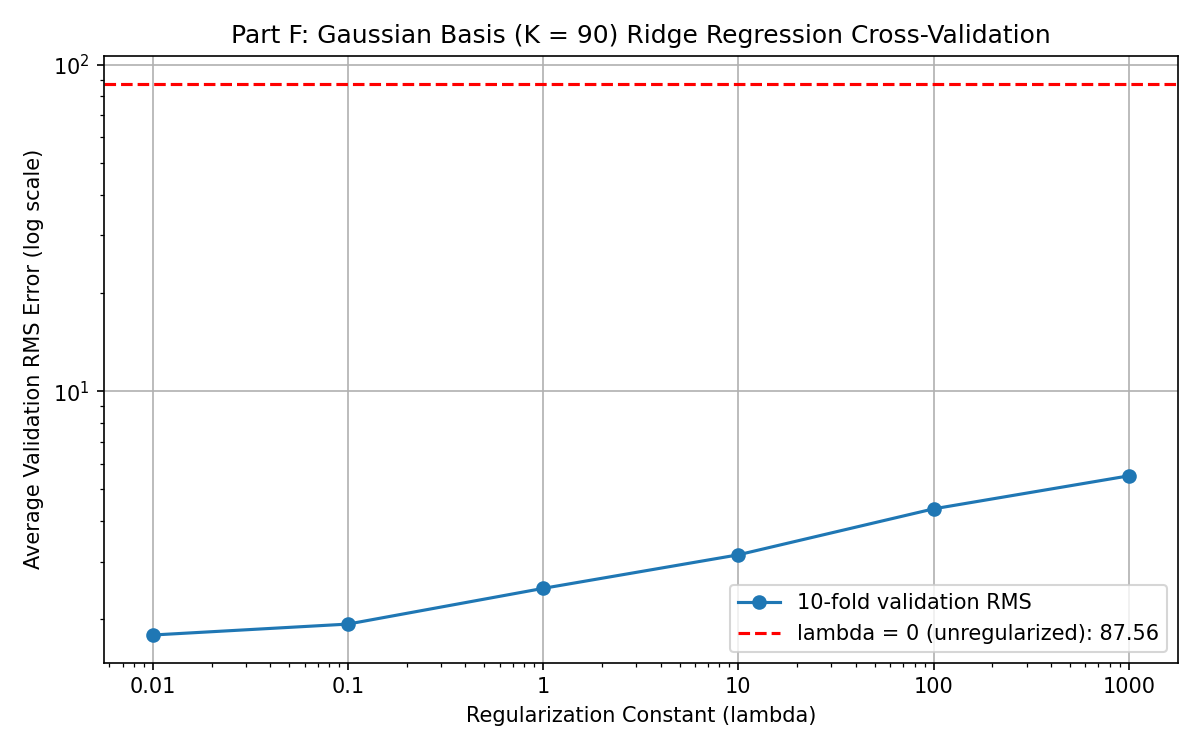
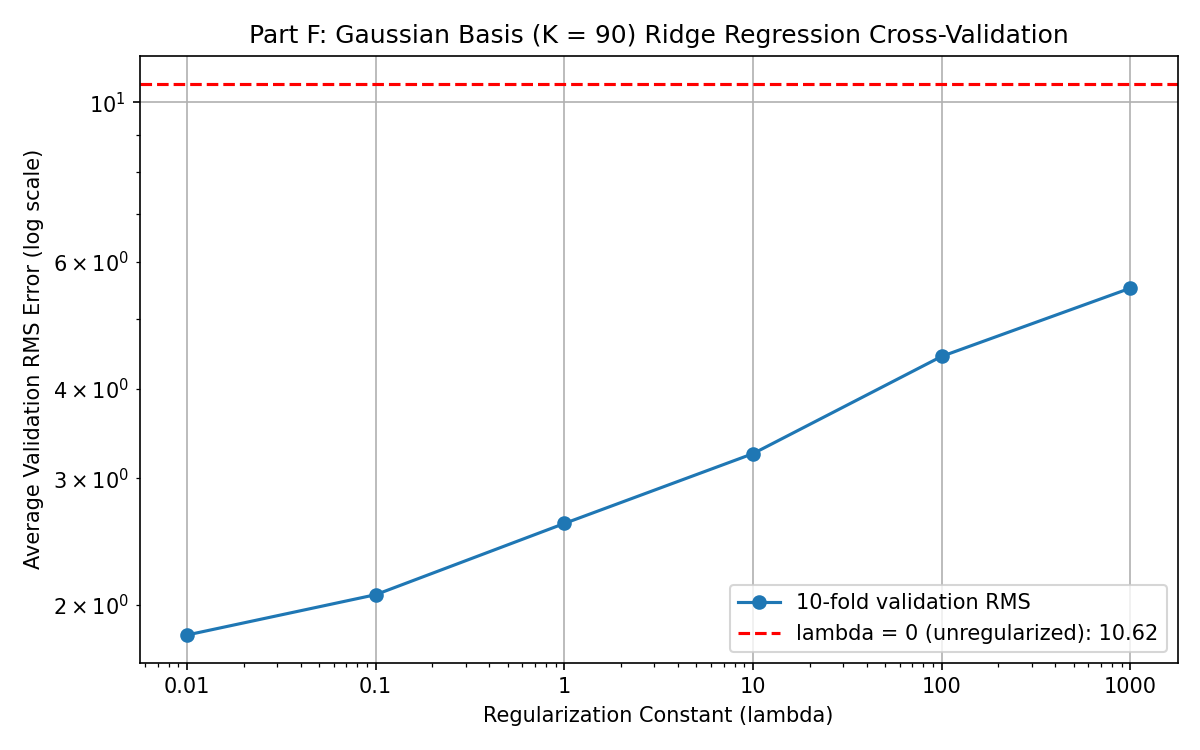
fixes

diff --git a/2/index.html b/2/index.html
@@ -261,7 +261,7 @@ Weights: w = Φ⁺ y (no regularization)</pre>
     <table class="a2-table">
       <thead><tr><th>λ</th><th>0</th><th>0.01</th><th>0.1</th><th>1</th><th>10</th><th>100</th><th>1000</th></tr></thead>
       <tbody>
-        <tr><td>Avg. validation RMS</td><td>87.56</td><td>1.79</td><td>1.93</td><td>2.49</td><td>3.15</td><td>4.36</td><td>5.50</td></tr>
+        <tr><td>Avg. validation RMS</td><td>10.62</td><td>1.81</td><td>2.07</td><td>2.60</td><td>3.25</td><td>4.43</td><td>5.52</td></tr>
       </tbody>
     </table>
     </div>
@@ -270,10 +270,7 @@ Weights: w = Φ⁺ y (no regularization)</pre>
       <figcaption>Average 10-fold validation RMS versus λ for K = 90 (λ = 0 shown as the dashed baseline; y-axis is logarithmic).</figcaption>
     </figure>
     <p>
-      <strong>Choice of λ.</strong> I would choose <strong>λ = 0.01</strong>, which has the lowest average validation error (1.79).
-      Regularization matters a great deal here: with no penalty and 90 basis functions for roughly 90 training rows per fold, the unregularized fit is wildly overfit (validation RMS 87.6).
-      Validation error then rises steadily as λ grows, because a large penalty makes the model too stiff. Note that these validation errors (about 1.8) are much smaller than the test errors in part (e) (about 8), because cross-validation shuffles the same 100 training towns, so each validation town has similar neighbours in the training folds,
-      while the test towns come from other parts of the dataset.
+      <strong>Choice of λ.</strong> I would choose <strong>λ = 0.01</strong>, which has the lowest average validation RMS error (1.8161). Regularization matters a great deal here: with no penalty and 90 basis functions, the unregularized model has a much higher validation RMS error (10.6235), indicating substantial overfitting. Introducing a small penalty significantly improves generalization, while validation error rises as λ increases beyond 0.01, suggesting that stronger regularization increasingly restricts the model's flexibility. Note that these validation errors (about 1.8) are much smaller than the test errors in Part (e) (approximately 8 for some of the better-performing models). One possible explanation is that cross-validation randomly splits the first 100 towns, allowing validation samples to have similar nearby samples in the training folds, whereas the test set consists of the remaining towns in the dataset. This difference in data distribution can make cross-validation error lower than test error.
     </p>
 
     <!-- ===================================================== CODE -->

diff --git a/2/code/SYDE 572 A2.py b/2/code/SYDE 572 A2.py
@@ -417,19 +417,66 @@ def ridge_fit(Phi, t, lam):
     b = np.concatenate([t, np.zeros(n_cols)])
     return np.linalg.lstsq(A, b, rcond=None)[0]
  
+
 def gaussian_cv_curve(seed):
     rng = np.random.RandomState(seed)
-    folds = np.array_split(rng.permutation(len(y_train)), n_folds)
+    folds = np.array_split(
+        rng.permutation(len(y_train)), n_folds
+    )
     curve = []
+
     for lam in lambdas_d:
         fold_errors = []
+
         for k in range(n_folds):
             val_idx = folds[k]
-            tr_idx = np.concatenate([folds[i] for i in range(n_folds) if i != k])
-            w = ridge_fit(Phi_f[tr_idx], y_train[tr_idx], lam)
-            fold_errors.append(rms_error(y_train[val_idx], Phi_f[val_idx] @ w))
+            tr_idx = np.concatenate([
+                folds[i]
+                for i in range(n_folds)
+                if i != k
+            ])
+
+            # Use only this fold's training samples
+            X_fold_tr = X_train_n[tr_idx]
+            X_fold_val = X_train_n[val_idx]
+            y_fold_tr = y_train[tr_idx]
+            y_fold_val = y_train[val_idx]
+
+            # Select 90 centers from the fold's training data.
+            # Each fold has 90 training samples.
+            centers = X_fold_tr
+
+            # Estimate sigma using only training-fold samples
+            diffs = (
+                X_fold_tr[:, None, :] -
+                X_fold_tr[None, :, :]
+            )
+            distances = np.sqrt(
+                (diffs ** 2).sum(axis=2)
+            )
+            sigma_fold = np.median(
+                distances[
+                    np.triu_indices(len(X_fold_tr), k=1)
+                ]
+            )
+
+            Phi_tr = gaussian_basis(
+                X_fold_tr, centers, sigma_fold
+            )
+            Phi_val = gaussian_basis(
+                X_fold_val, centers, sigma_fold
+            )
+
+            w = ridge_fit(Phi_tr, y_fold_tr, lam)
+
+            fold_errors.append(
+                rms_error(y_fold_val, Phi_val @ w)
+            )
+
         curve.append(np.mean(fold_errors))
+
     return np.array(curve)
+
  
 cv_errors_f = gaussian_cv_curve(42)
  
